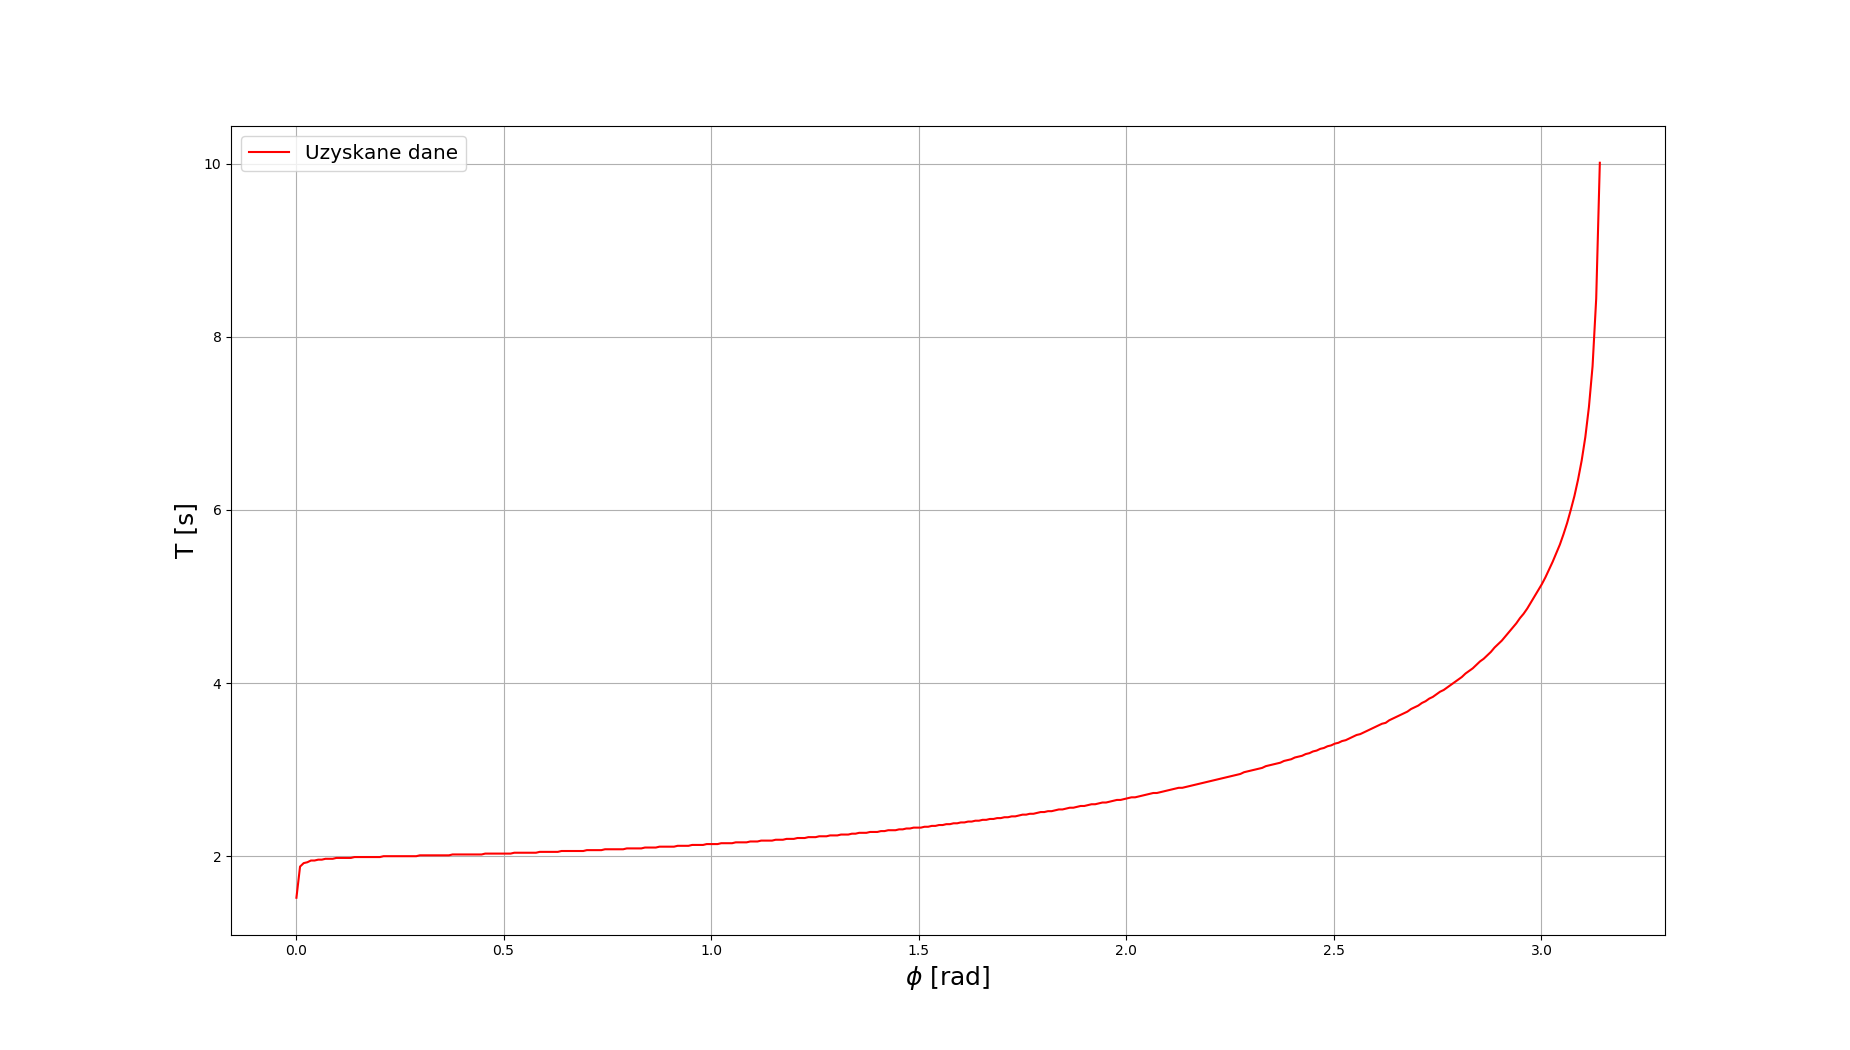
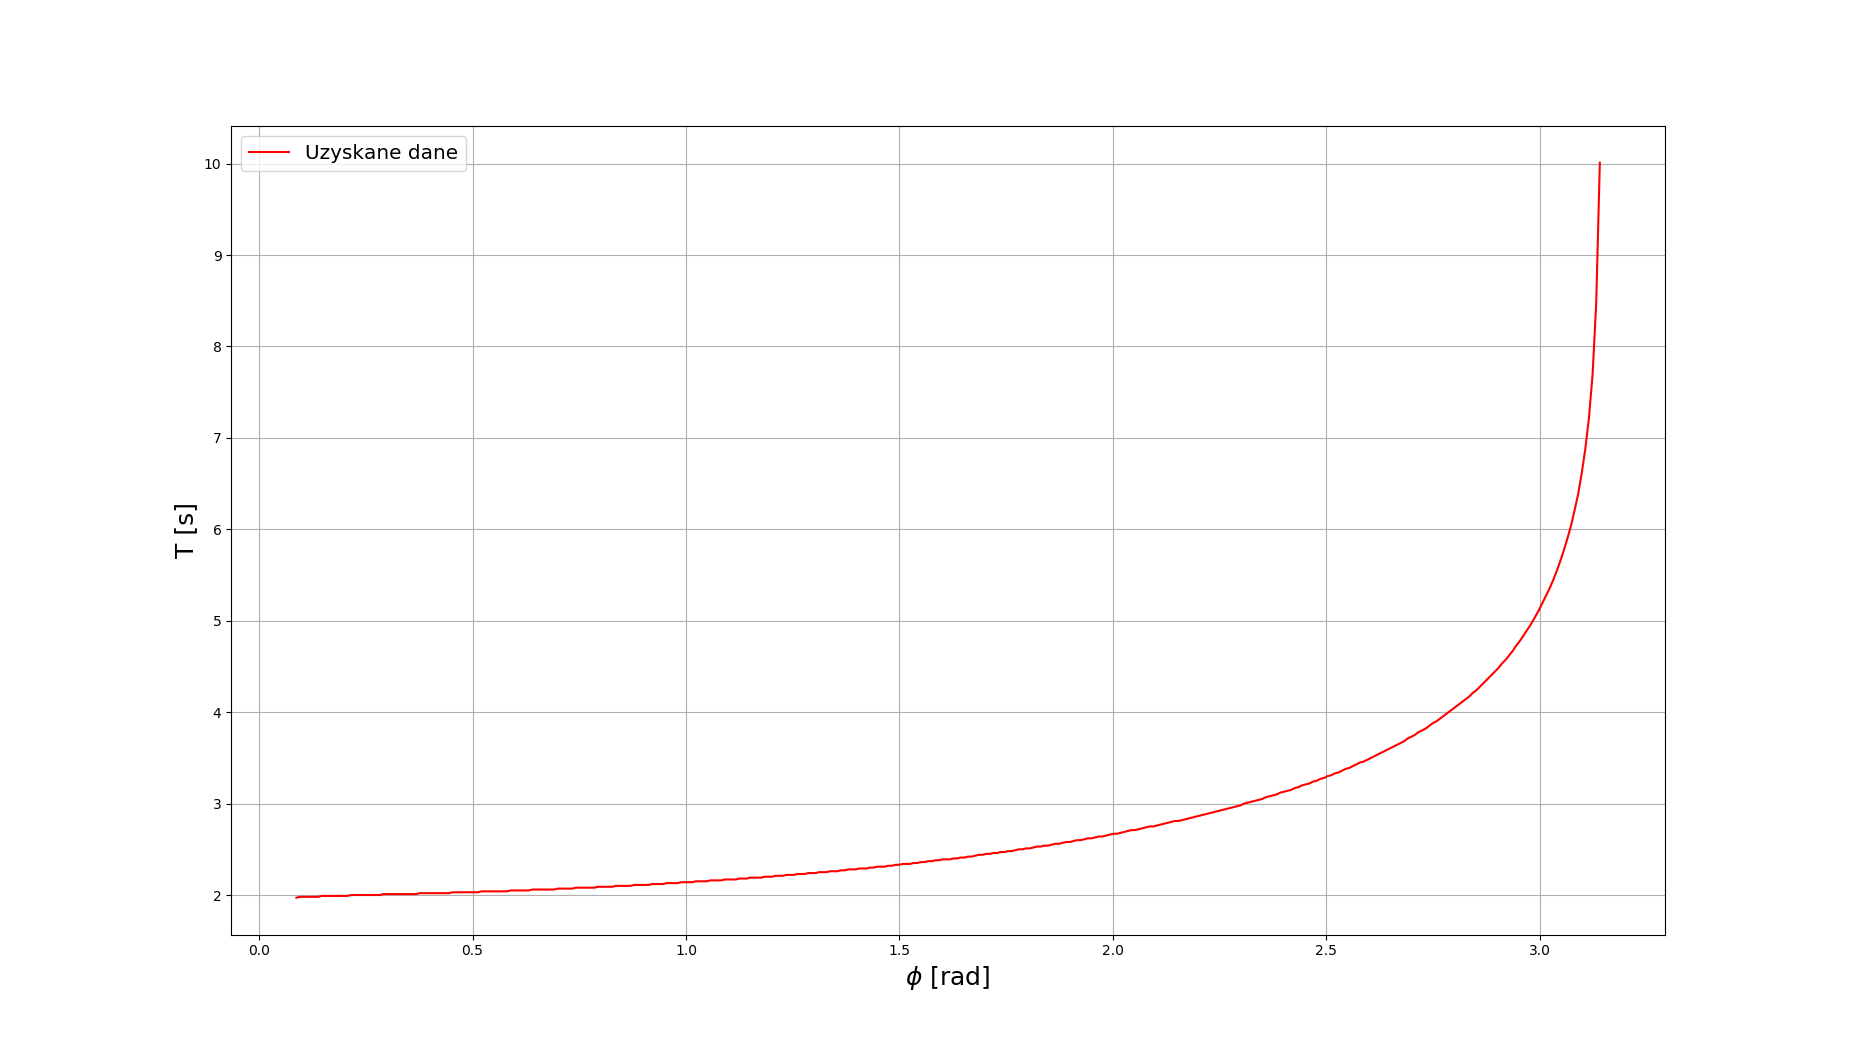
Fixed

diff --git a/PFT/LAB_1/lab_1.py b/PFT/LAB_1/lab_1.py
@@ -218,7 +218,7 @@ def zadanie_2():
 
 def zadanie_3():
 
-	data = numpy.linspace(1e-3,numpy.pi-1e-3,360)
+	data = numpy.linspace(deg_to_rad(5),numpy.pi-1e-3,360)
 	L = [wahadlo('','', i) for i in data]
 	
 	phi = []
@@ -251,7 +251,7 @@ def zadanie_3():
 	if draw_chart:
 		plt.show()
 
-#zadanie_3()
+zadanie_3()
 
 
 
